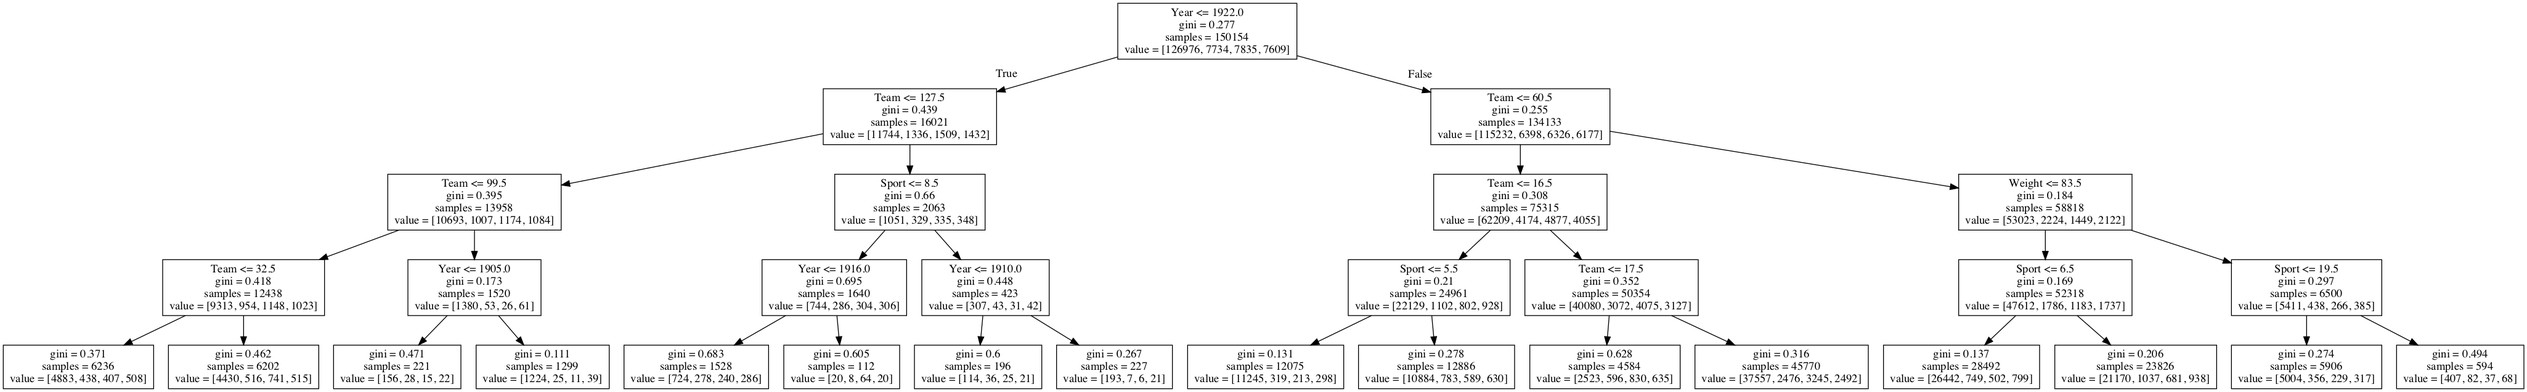
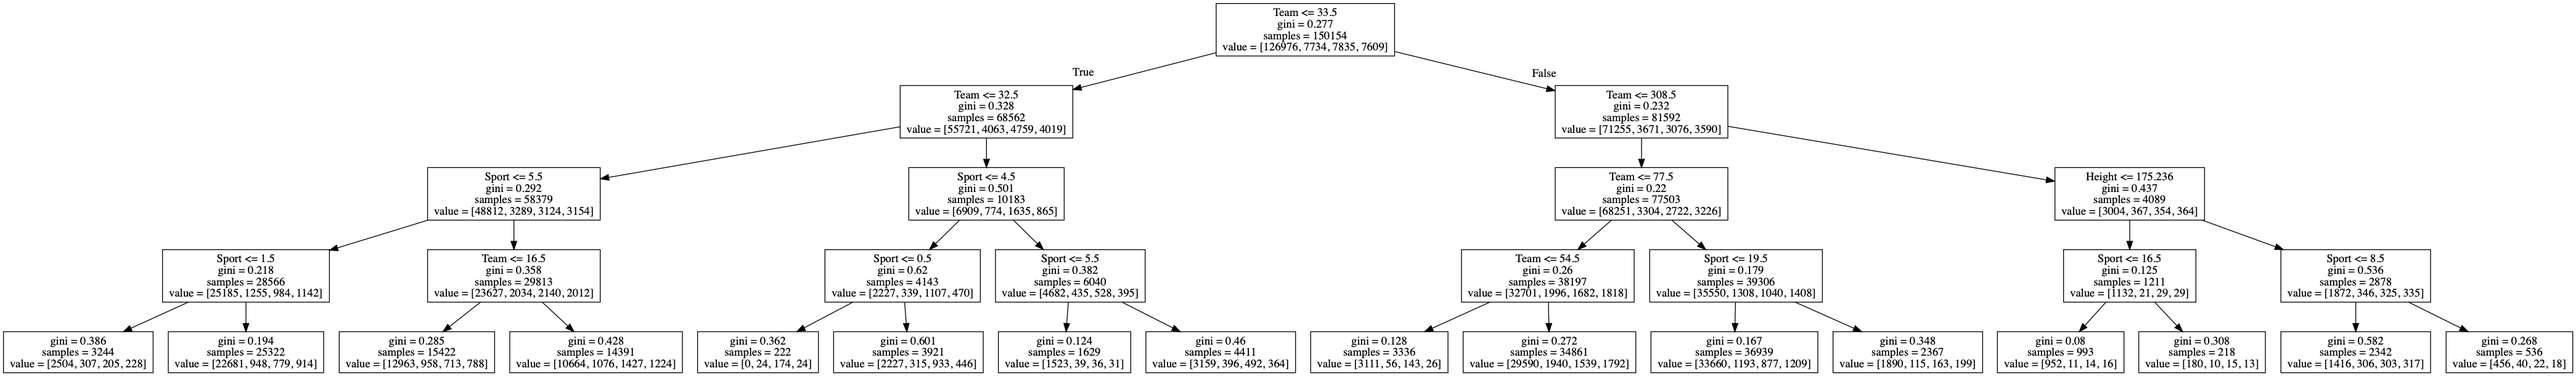
new tree

diff --git a/test.py b/test.py
@@ -4,11 +4,8 @@ import pandas
 from subprocess import check_call
 import seaborn as sns
 from matplotlib import pyplot as plt
-from sklearn.metrics import accuracy_score, precision_recall_fscore_support
+from sklearn.metrics import accuracy_score, precision_recall_fscore_support, confusion_matrix
 from sklearn.tree import DecisionTreeClassifier, export_graphviz
-import keras
-from keras.models import Sequential
-from keras.layers import Dense
 
 
 original = pandas.read_csv('athlete_events.csv')
@@ -83,10 +80,11 @@ plt.tight_layout()
 sns.countplot(x = 'Year', hue = 'Medal', data = indian_medals)
 plt.title("India's Total Medal count")
 #plt.show()
-
 # Stratified Sampling - testing/training #214510 	#150154		#64356		
 training_set = final_data[final_data['Year'] < 2000]
 testing_set = final_data.drop(training_set.index, axis = 0)
+training_set=training_set.drop(columns = ['Year'])
+testing_set=testing_set.drop(columns = ['Year'])
 
 # divide into X and y
 y_train = training_set[['Medal']].copy()
@@ -129,37 +127,37 @@ def decision_tree(classifier):
     print('\nAccuracy: ', accuracy_score(y_test, y_pred) * 100)
     precision, recall, fscore, support = precision_recall_fscore_support(y_test, y_pred, average = 'micro')
     print('\nPrecision: ', precision, '\nRecall: ', recall, '\nF-score: ', fscore)
-
 decision_tree('gini')
 decision_tree('entropy')
 
+
 #ANN begins
 
-def bulid_ann_model(neurons, optimizer, x, y, activation):
+# def bulid_ann_model(neurons, optimizer, x, y, activation):
 
-	model = Sequential()
-	model.add(Dense(neurons, imput_dim = 7, activation = activation))
-	model.add(Dense(neurons, activation = activation))
-	model.add(Dense(1, activation = 'sigmoid'))
+# 	model = Sequential()
+# 	model.add(Dense(neurons, input_dim = 7, activation = activation))
+# 	model.add(Dense(neurons, activation = activation))
+# 	model.add(Dense(1, activation = 'sigmoid'))
 
-	model.compile(loss = 'mse', optimizer = opitmizer, metrics = ['accuracy'])
-	model.fit(X_train, y_train, epochs = 10, batch_size = 50)
+# 	model.compile(loss = 'mse', optimizer = optimizer, metrics = ['accuracy'])
+# 	model.fit(X_train, y_train, epochs = 10, batch_size = 50)
 
-	scores = model.evaluate(x, y)
+# 	scores = model.evaluate(x, y)
 
-	print('Accuracy :', scores[1]*100)
+# 	print('Accuracy :', scores[1]*100)
 
-neurons = [2,4,6,8,10]
-optimizers = ['adam', 'sgd', 'rmsprop', 'adagrad']
-activations = ['relu', 'sigmoid', 'tanh', 'exponential']
+# neurons = [2,4,6,8,10]
+# optimizers = ['adam', 'sgd', 'rmsprop', 'adagrad']
+# activations = ['relu', 'sigmoid', 'tanh', 'exponential']
 
-for neuron in neurons :
-	print('neurons', neuron)
-	for optimizer in optimizers :
-		print('optimizer ', optimizer)
-		for activation in activations :
-			print(' activation', activation)
-			bulid_ann_model (neuron, optimizer, X_train, y_train, activation)
+# for neuron in neurons :
+# 	print('neurons', neuron)
+# 	for optimizer in optimizers :
+# 		print('optimizer ', optimizer)
+# 		for activation in activations :
+# 			print(' activation', activation)
+# 			bulid_ann_model (neuron, optimizer, X_train, y_train, activation)
 
 
 
